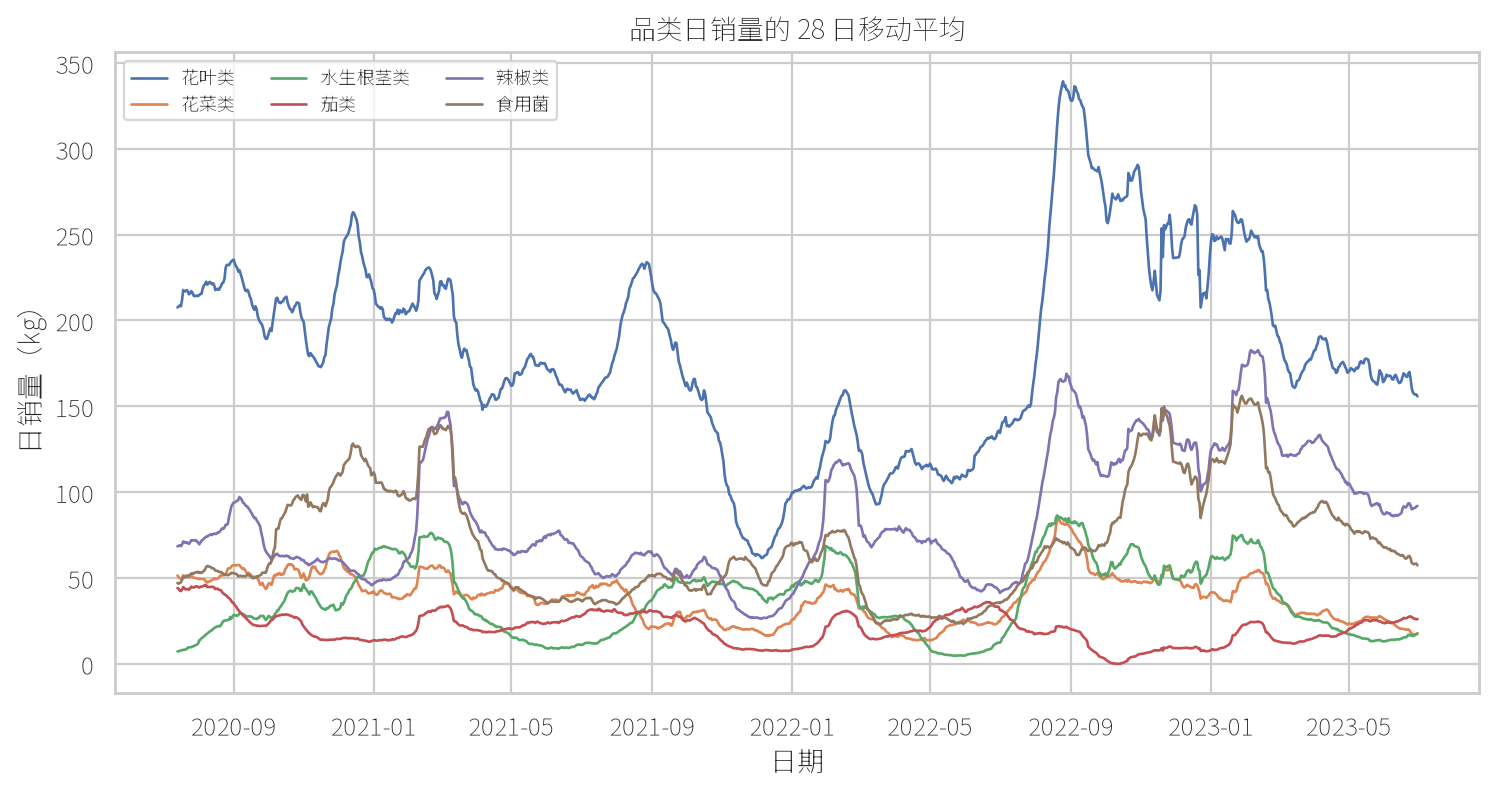
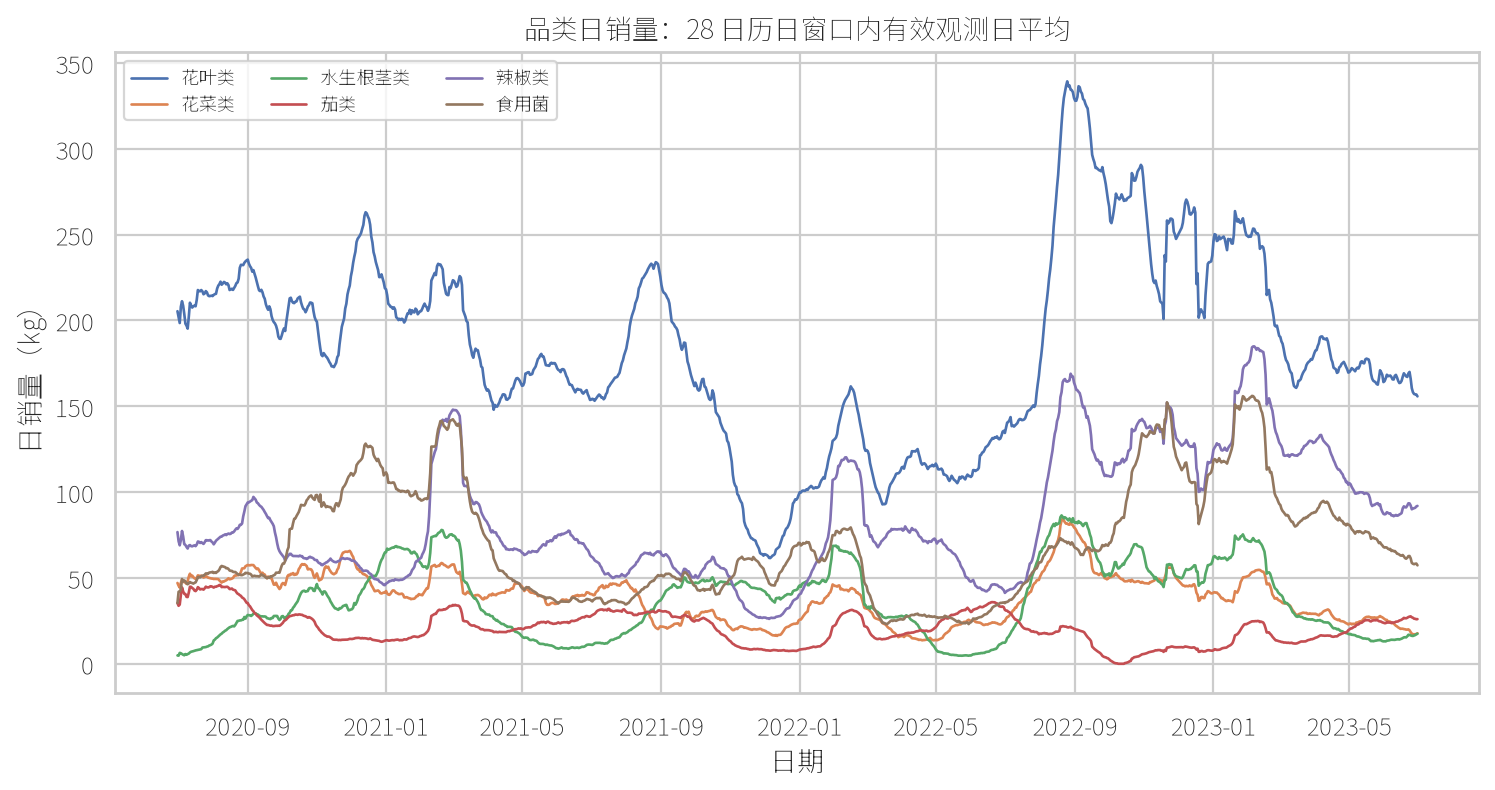
analysis: finalize problem 1 robustness and evidence tables

diff --git a/analysis/problem1/problem1_eda.py b/analysis/problem1/problem1_eda.py
@@ -139,6 +139,26 @@ def category_analysis(category_daily: pd.DataFrame, outputs: Path, figures: Path
     ym["月份"] = ym.index.month
     year_month_avg = ym.groupby(["年份", "月份"])[names].mean().reset_index()
     write_csv(year_month_avg, outputs / "category" / "品类_跨年度_月度日均销量.csv")
+    # Only 2021 and 2022 contain all twelve months. Compare their curves
+    # directly; the half-years 2020/2023 remain visual context, not replicates.
+    full_2021 = year_month_avg[year_month_avg["年份"] == 2021].sort_values("月份").reset_index(drop=True)
+    full_2022 = year_month_avg[year_month_avg["年份"] == 2022].sort_values("月份").reset_index(drop=True)
+    stability_rows = []
+    for name in names:
+        peak_21, peak_22 = int(full_2021.loc[full_2021[name].idxmax(), "月份"]), int(full_2022.loc[full_2022[name].idxmax(), "月份"])
+        trough_21, trough_22 = int(full_2021.loc[full_2021[name].idxmin(), "月份"]), int(full_2022.loc[full_2022[name].idxmin(), "月份"])
+        pearson = full_2021[name].corr(full_2022[name], method="pearson")
+        spearman = full_2021[name].corr(full_2022[name], method="spearman")
+        peak_close = abs(peak_21 - peak_22) <= 1
+        trough_close = abs(trough_21 - trough_22) <= 1
+        # This conservative label is an evidence summary, not a claim that
+        # seasonality has been proved from only two complete years.
+        label = "完整年度间有一定重复线索" if pearson >= .5 and spearman >= .5 and peak_close and trough_close else "跨完整年度不稳定，仅作描述"
+        stability_rows.append({"分类名称": name, "2021_峰值月份": peak_21, "2022_峰值月份": peak_22, "峰值月份相近_≤1月": peak_close,
+                               "2021_低谷月份": trough_21, "2022_低谷月份": trough_22, "低谷月份相近_≤1月": trough_close,
+                               "2021_2022月均曲线Pearson": pearson, "2021_2022月均曲线Spearman": spearman, "判定": label})
+    seasonal_stability = pd.DataFrame(stability_rows)
+    write_csv(seasonal_stability, outputs / "category" / "品类_2021_2022月份规律一致性.csv")
 
     weekdays = panel.copy()
     weekdays["星期"] = weekdays.index.dayofweek
@@ -146,9 +166,10 @@ def category_analysis(category_daily: pd.DataFrame, outputs: Path, figures: Path
     weekday_avg["星期名称"] = ["周一", "周二", "周三", "周四", "周五", "周六", "周日"]
     write_csv(weekday_avg, outputs / "category" / "品类_星期日均销量.csv")
 
+    calendar_days = pd.Series((panel.index - panel.index.min()).days.astype(float), index=panel.index)
     trend = pd.DataFrame({
         "分类名称": names,
-        "Spearman_日期趋势": [panel[name].corr(pd.Series(np.arange(len(panel)), index=panel.index), method="spearman") for name in names],
+        "Spearman_距起始日期日历天数": [panel[name].corr(calendar_days, method="spearman") for name in names],
     })
     write_csv(trend, outputs / "category" / "品类_长期趋势统计.csv")
 
@@ -167,11 +188,14 @@ def category_analysis(category_daily: pd.DataFrame, outputs: Path, figures: Path
     fig.savefig(figures / "品类_日销量箱线图.png")
     plt.close(fig)
 
-    rolling = panel.rolling(28, min_periods=14).mean()
+    # A time offset makes this a true calendar window. Missing store-record days
+    # are absent rather than zero-filled, so each mean uses only valid dates in
+    # the preceding 28 calendar days.
+    rolling = panel.rolling("28D", min_periods=1).mean()
     fig, ax = plt.subplots(figsize=(11, 5.2))
     for name in names:
         ax.plot(rolling.index, rolling[name], linewidth=1.2, label=name)
-    ax.set(title="品类日销量的 28 日移动平均", xlabel="日期", ylabel="日销量（kg）")
+    ax.set(title="品类日销量：28 日历日窗口内有效观测日平均", xlabel="日期", ylabel="日销量（kg）")
     ax.legend(ncol=3, fontsize=8)
     fig.savefig(figures / "品类_时间规律_28日移动平均.png")
     plt.close(fig)
@@ -205,7 +229,7 @@ def category_analysis(category_daily: pd.DataFrame, outputs: Path, figures: Path
     fig.savefig(figures / "品类_星期日均销量.png")
     plt.close(fig)
 
-    return {"panel": panel, "stats": stats, "monthly": month_avg, "year_month": year_month_avg, "weekday": weekday_avg, "trend": trend, "observed_days": len(observed_dates)}
+    return {"panel": panel, "stats": stats, "monthly": month_avg, "year_month": year_month_avg, "seasonal_stability": seasonal_stability, "weekday": weekday_avg, "trend": trend, "observed_days": len(observed_dates)}
 
 
 def item_analysis(item_daily: pd.DataFrame, active: pd.DataFrame | None, outputs: Path, figures: Path) -> dict:
@@ -296,7 +320,7 @@ def heatmap(matrix: pd.DataFrame, title: str, path: Path) -> None:
     plt.close(fig)
 
 
-def residualize_time_effects(panel: pd.DataFrame) -> pd.DataFrame:
+def residualize_time_effects(panel: pd.DataFrame, include_year: bool = False) -> pd.DataFrame:
     """Remove additive weekday, calendar-month and linear-time effects by OLS.
 
     This is a transparent descriptive adjustment, not a causal model.  The time
@@ -309,7 +333,12 @@ def residualize_time_effects(panel: pd.DataFrame) -> pd.DataFrame:
     month = pd.get_dummies(dates.month, prefix="month", drop_first=True, dtype=float)
     weekday.index = dates
     month.index = dates
-    x = pd.concat([design, weekday, month], axis=1).to_numpy(dtype=float)
+    parts = [design, weekday, month]
+    if include_year:
+        year = pd.get_dummies(dates.year, prefix="year", drop_first=True, dtype=float)
+        year.index = dates
+        parts.append(year)
+    x = pd.concat(parts, axis=1).to_numpy(dtype=float)
     residuals = pd.DataFrame(index=dates, columns=panel.columns, dtype=float)
     for name in panel.columns:
         y = panel[name].to_numpy(dtype=float)
@@ -338,10 +367,14 @@ def category_correlations(panel: pd.DataFrame, outputs: Path, figures: Path) -> 
     residuals = residualize_time_effects(panel)
     residual_p = residuals.corr(method="pearson")
     residual_s = residuals.corr(method="spearman")
+    residuals_year = residualize_time_effects(panel, include_year=True)
+    residual_year_p = residuals_year.corr(method="pearson")
+    residual_year_s = residuals_year.corr(method="spearman")
     for name, table in [("品类_日尺度_Pearson相关矩阵.csv", daily_p), ("品类_日尺度_Spearman相关矩阵.csv", daily_s),
                         ("品类_周尺度_旧含不完整周_Pearson相关矩阵.csv", weekly_all_p), ("品类_周尺度_旧含不完整周_Spearman相关矩阵.csv", weekly_all_s),
                         ("品类_周尺度_完整自然周_Pearson相关矩阵.csv", weekly_p), ("品类_周尺度_完整自然周_Spearman相关矩阵.csv", weekly_s),
-                        ("品类_残差_Pearson相关矩阵.csv", residual_p), ("品类_残差_Spearman相关矩阵.csv", residual_s)]:
+                        ("品类_残差_Pearson相关矩阵.csv", residual_p), ("品类_残差_Spearman相关矩阵.csv", residual_s),
+                        ("品类_残差_含年份效应_Pearson相关矩阵.csv", residual_year_p), ("品类_残差_含年份效应_Spearman相关矩阵.csv", residual_year_s)]:
         write_csv(table.reset_index().rename(columns={"category_name": "分类名称"}), outputs / "correlation" / name)
     heatmap(daily_p, "品类日销量 Pearson 相关", figures / "品类_日尺度Pearson热力图.png")
     heatmap(daily_s, "品类日销量 Spearman 相关", figures / "品类_日尺度Spearman热力图.png")
@@ -355,11 +388,14 @@ def category_correlations(panel: pd.DataFrame, outputs: Path, figures: Path) -> 
         pairs.append({"品类A": a, "品类B": b, "日Pearson": daily_p.loc[a, b], "日Spearman": daily_s.loc[a, b],
                       "旧周Pearson": weekly_all_p.loc[a, b], "旧周Spearman": weekly_all_s.loc[a, b],
                       "完整周Pearson": weekly_p.loc[a, b], "完整周Spearman": weekly_s.loc[a, b],
-                      "残差Pearson": residual_p.loc[a, b], "残差Spearman": residual_s.loc[a, b]})
+                      "残差Pearson": residual_p.loc[a, b], "残差Spearman": residual_s.loc[a, b],
+                      "残差含年份Pearson": residual_year_p.loc[a, b], "残差含年份Spearman": residual_year_s.loc[a, b]})
     pair_table = pd.DataFrame(pairs)
     pair_table["周Pearson修正差异"] = pair_table["完整周Pearson"] - pair_table["旧周Pearson"]
     pair_table["周Spearman修正差异"] = pair_table["完整周Spearman"] - pair_table["旧周Spearman"]
-    pair_table["最大绝对相关"] = pair_table[["日Pearson", "日Spearman", "完整周Pearson", "完整周Spearman", "残差Pearson", "残差Spearman"]].abs().max(axis=1)
+    pair_table["残差Pearson_年份效应差异"] = pair_table["残差含年份Pearson"] - pair_table["残差Pearson"]
+    pair_table["残差Spearman_年份效应差异"] = pair_table["残差含年份Spearman"] - pair_table["残差Spearman"]
+    pair_table["最大绝对相关"] = pair_table[["日Pearson", "日Spearman", "完整周Pearson", "完整周Spearman", "残差Pearson", "残差Spearman", "残差含年份Pearson", "残差含年份Spearman"]].abs().max(axis=1)
     pair_table = pair_table.sort_values("最大绝对相关", ascending=False)
     write_csv(pair_table, outputs / "correlation" / "品类_相关性_时间控制与周修正对照.csv")
     focus_names = [("辣椒类", "食用菌"), ("花叶类", "花菜类"), ("水生根茎类", "食用菌")]
@@ -369,7 +405,7 @@ def category_correlations(panel: pd.DataFrame, outputs: Path, figures: Path) -> 
     write_csv(focus_table, outputs / "correlation" / "品类_重点对_控制时间效应对照.csv")
     week_summary = pd.DataFrame([{"旧周样本数": len(weekly_all), "完整自然周样本数": len(weekly), "剔除周数": len(weekly_all) - len(weekly)}])
     write_csv(week_summary, outputs / "correlation" / "品类_周尺度样本修正摘要.csv")
-    return {"daily_p": daily_p, "daily_s": daily_s, "weekly_old_p": weekly_all_p, "weekly_old_s": weekly_all_s, "weekly_p": weekly_p, "weekly_s": weekly_s, "residual_p": residual_p, "residual_s": residual_s, "pairs": pair_table, "focus": focus_table, "weekly": weekly, "weekly_old": weekly_all, "residuals": residuals}
+    return {"daily_p": daily_p, "daily_s": daily_s, "weekly_old_p": weekly_all_p, "weekly_old_s": weekly_all_s, "weekly_p": weekly_p, "weekly_s": weekly_s, "residual_p": residual_p, "residual_s": residual_s, "residual_year_p": residual_year_p, "residual_year_s": residual_year_s, "pairs": pair_table, "focus": focus_table, "weekly": weekly, "weekly_old": weekly_all, "residuals": residuals, "residuals_year": residuals_year}
 
 
 def item_overlap_and_correlations(item_daily: pd.DataFrame, active: pd.DataFrame | None, outputs: Path, figures: Path) -> dict:
@@ -460,6 +496,33 @@ def item_overlap_and_correlations(item_daily: pd.DataFrame, active: pd.DataFrame
     write_csv(sensitivity, outputs / "correlation" / "单品_相关性门槛敏感性摘要.csv")
     write_csv(correlations.sort_values("最大绝对相关", ascending=False).head(100), outputs / "correlation" / "单品_相关性绝对值Top100.csv")
 
+    # Do not present hundreds of qualifying pairs as a flat list.  Summarize the
+    # relation structure and select examples with both adequate overlap and close
+    # Pearson/Spearman estimates.
+    robust = robust.copy()
+    robust["方向"] = np.where(robust["Pearson相关"] > 0, "正相关", "负相关")
+    robust["是否同品类"] = robust["分类名称_A"] == robust["分类名称_B"]
+    robust["品类组合"] = robust.apply(lambda r: " × ".join(sorted([r["分类名称_A"], r["分类名称_B"]])), axis=1)
+    structure_summary = pd.DataFrame([{
+        "稳健相关对总数": len(robust), "正相关对数": int((robust["方向"] == "正相关").sum()), "负相关对数": int((robust["方向"] == "负相关").sum()),
+        "同品类对数": int(robust["是否同品类"].sum()), "跨品类对数": int((~robust["是否同品类"]).sum()),
+    }])
+    write_csv(structure_summary, outputs / "correlation" / "单品_稳健相关对_结构摘要.csv")
+    structure_by_category = robust.groupby(["品类组合", "方向"], as_index=False).agg(
+        稳健相关对数=("单品编码_A", "size"), 共同销售日数中位数=("共同有销售记录日数", "median"),
+        Pearson中位数=("Pearson相关", "median"), Spearman中位数=("Spearman相关", "median"),
+        共同最弱相关绝对值中位数=("共同最弱相关绝对值", "median"),
+    ).sort_values(["稳健相关对数", "共同最弱相关绝对值中位数"], ascending=False)
+    write_csv(structure_by_category, outputs / "correlation" / "单品_稳健相关对_品类组合汇总.csv")
+    n_cutoff = robust["共同有销售记录日数"].quantile(.75)
+    representative_pool = robust[(robust["共同有销售记录日数"] >= n_cutoff) & (robust["Pearson_Spearman绝对差"] <= .10)].copy()
+    representative_pool["代表性排序分数"] = representative_pool["共同最弱相关绝对值"] * np.log1p(representative_pool["共同有销售记录日数"])
+    representatives = pd.concat([
+        representative_pool[representative_pool["方向"] == "正相关"].nlargest(3, "代表性排序分数"),
+        representative_pool[representative_pool["方向"] == "负相关"].nlargest(2, "代表性排序分数"),
+    ]).sort_values(["方向", "代表性排序分数"], ascending=[False, False])
+    write_csv(representatives, outputs / "correlation" / "单品_稳健相关对_代表性样本.csv")
+
     # Scatter examples use the robust set if it contains both signs.  Raw top
     # Pearson pairs remain tables only because a high Pearson alone is a clue.
     examples = []
@@ -482,7 +545,8 @@ def item_overlap_and_correlations(item_daily: pd.DataFrame, active: pd.DataFrame
     return {"overlap_summary": overlap_summary, "distribution": distribution, "threshold": threshold, "eligible_pairs": len(eligible),
             "correlations": correlations, "correlations_30": correlations_30, "correlations_60": correlations_60,
             "positive_30": pos30, "negative_30": neg30, "positive_60": pos60, "negative_60": neg60,
-            "robust": robust, "sensitivity": sensitivity}
+            "robust": robust, "sensitivity": sensitivity, "structure_summary": structure_summary,
+            "structure_by_category": structure_by_category, "representatives": representatives, "representative_n_cutoff": n_cutoff}
 
 
 def fmt(value: float, digits: int = 2) -> str:
@@ -492,6 +556,44 @@ def fmt(value: float, digits: int = 2) -> str:
 def markdown_table(df: pd.DataFrame, columns: list[str], n: int | None = None) -> str:
     selected = df[columns].head(n) if n else df[columns]
     return selected.to_markdown(index=False, floatfmt=".2f")
+
+
+def write_final_candidate_tables(category: dict, corr: dict, item_corr: dict, outputs: Path) -> dict:
+    """Write the shared missing-data rule and the paper-oriented evidence tables."""
+    final_dir = outputs / "final"
+    rules = pd.DataFrame([
+        {"统计问题": "三年总销量", "有效样本": "所有真实销售记录", "缺失处理": "直接求和；无销售记录日不另造 0", "完整窗口要求": "否"},
+        {"统计问题": "日均销量", "有效样本": "1085 个有销售记录日", "缺失处理": "仅这些有效日参与均值", "完整窗口要求": "否"},
+        {"统计问题": "月度平均日销量", "有效样本": "该月份的所有有效观测日", "缺失处理": "不要求该月完整，不删除相邻有效日", "完整窗口要求": "否"},
+        {"统计问题": "跨年度月份规律", "有效样本": "各 year-month 内的所有有效观测日", "缺失处理": "按 year-month 独立平均；半年度不当完整重复", "完整窗口要求": "否"},
+        {"统计问题": "星期规律", "有效样本": "所有有效周一、周二……", "缺失处理": "按星期分别平均，不因同周其他日缺失而删除", "完整窗口要求": "否"},
+        {"统计问题": "日尺度相关", "有效样本": "有效观测日", "缺失处理": "不把全店无销售记录日补为 0", "完整窗口要求": "否"},
+        {"统计问题": "周总销量及周尺度相关", "有效样本": "周一至周日均有销售记录的周", "缺失处理": "仅此处剔除 7 日不齐全的自然周", "完整窗口要求": "是：7 个销售记录日"},
+        {"统计问题": "单品相关", "有效样本": "两单品共同销售日", "缺失处理": "未知状态日期不补 0", "完整窗口要求": "否；使用 overlap 门槛"},
+    ])
+    write_csv(rules, final_dir / "统计口径与缺失处理.csv")
+    focus = corr["focus"].set_index(["品类A", "品类B"])
+    structure = item_corr["structure_summary"].iloc[0]
+    monthly = category["seasonal_stability"]
+    conclusion = pd.DataFrame([
+        {"结论": "品类规模和波动存在差异", "使用指标/图": "品类描述统计、总销量柱状图、箱线图", "数值证据": "花叶类总销量最高；水生根茎类 CV 最高", "稳健性验证": "1085 个有效日，未把 10 个无记录日补零", "论文表述限制": "描述性差异，不解释原因"},
+        {"结论": "月度模式跨完整年度总体不稳定", "使用指标/图": "2021/2022 月均曲线与一致性表", "数值证据": f"6 类中满足保守重复规则的类别数={int((monthly['判定'] == '完整年度间有一定重复线索').sum())}", "稳健性验证": "仅比较完整 2021、2022；2020/2023 仅作半年度旁证", "论文表述限制": "不能称已证明稳定季节性"},
+        {"结论": "辣椒类—食用菌存在较强的时间控制后同步线索", "使用指标/图": "日相关、完整周相关、残差相关", "数值证据": f"残差 Pearson/Spearman={focus.loc[('辣椒类','食用菌'),'残差Pearson']:.3f}/{focus.loc[('辣椒类','食用菌'),'残差Spearman']:.3f}；含年份={focus.loc[('辣椒类','食用菌'),'残差含年份Pearson']:.3f}/{focus.loc[('辣椒类','食用菌'),'残差含年份Spearman']:.3f}", "稳健性验证": "完整自然周与年份效应敏感性", "论文表述限制": "同步变化，不是因果"},
+        {"结论": "花叶类—花菜类与水生根茎类—食用菌仍有正向同步线索", "使用指标/图": "重点对照表与残差热图", "数值证据": "残差相关方向为正；见重点对照表", "稳健性验证": "完整周、含年份效应残差", "论文表述限制": "强度不同，不能外推为机制"},
+        {"结论": "单品关系需使用 overlap 与双相关筛选", "使用指标/图": "overlap 分布、门槛敏感性、稳健相关结构表", "数值证据": f"n≥30/60 Top20 交集=11；稳健对={int(structure['稳健相关对总数'])}，正/负={int(structure['正相关对数'])}/{int(structure['负相关对数'])}", "稳健性验证": "n≥60、Pearson/Spearman 同号且均≥0.40", "论文表述限制": "仅共同销售日线索；不证明替代或互补"},
+    ])
+    write_csv(conclusion, final_dir / "结论_证据_限制.csv")
+    candidate_figures = pd.DataFrame([
+        {"图或表": "品类总销量柱状图、日销量箱线图", "建议位置": "正文", "用途": "品类规模与波动"},
+        {"图或表": "跨年度月度规律图", "建议位置": "正文", "用途": "月度规律及其跨年限制"},
+        {"图或表": "完整自然周 Pearson/Spearman 热图", "建议位置": "正文", "用途": "周尺度品类同步关系"},
+        {"图或表": "残差 Pearson 热图", "建议位置": "正文", "用途": "控制时间规律后的品类关系"},
+        {"图或表": "单品销量排名与累计贡献、overlap 分布", "建议位置": "正文", "用途": "集中度与单品关系口径"},
+        {"图或表": "稳健单品对代表性样本表", "建议位置": "正文或附表", "用途": "少量可解释的单品关系线索"},
+        {"图或表": "旧含不完整周相关、全量 Top20/Top100、Pearson-Spearman 差异表", "建议位置": "分析目录/附录", "用途": "口径修正与稳健性审计，不作论文主结论"},
+    ])
+    write_csv(candidate_figures, final_dir / "论文候选图表清单.csv")
+    return {"rules": rules, "conclusion": conclusion, "figures": candidate_figures}
 
 
 def create_report(category: dict, item: dict, corr: dict, item_corr: dict, report_path: Path) -> None:
@@ -597,7 +699,7 @@ def create_report(category: dict, item: dict, corr: dict, item_corr: dict, repor
     report_path.write_text(report, encoding="utf-8")
 
 
-def create_second_round_report(category: dict, item: dict, corr: dict, item_corr: dict, report_path: Path) -> None:
+def create_second_round_report(category: dict, item: dict, corr: dict, item_corr: dict, final_tables: dict, report_path: Path) -> None:
     """Write the review-oriented report for the second EDA verification round."""
     cat_stats = category["stats"]
     item_stats = item["stats"]
@@ -605,11 +707,14 @@ def create_second_round_report(category: dict, item: dict, corr: dict, item_corr
     focus = corr["focus"]
     sensitivity = item_corr["sensitivity"].iloc[0]
     robust = item_corr["robust"]
+    seasonal = category["seasonal_stability"]
+    structure = item_corr["structure_summary"].iloc[0]
+    representatives = item_corr["representatives"]
     old_weeks, full_weeks = len(corr["weekly_old"]), len(corr["weekly"])
     robust_text = "未出现满足全部规则的单品对。" if robust.empty else (
         f"筛得 {len(robust)} 对；强度最高的是 **{robust.iloc[0]['单品名称_A']}—{robust.iloc[0]['单品名称_B']}** "
         f"（n={int(robust.iloc[0]['共同有销售记录日数'])}，Pearson={robust.iloc[0]['Pearson相关']:.2f}，Spearman={robust.iloc[0]['Spearman相关']:.2f}）。")
-    report = f"""# 2023 年 CUMCM C 题：问题一 EDA（第二轮验证）
+    report = f"""# 2023 年 CUMCM C 题：问题一 EDA（第三轮收口候选版）
 
 > 本轮只验证问题一的统计规律与相关关系；不包含预测、补货、定价和问题二、问题三。运行 `problem1_eda.py` 可从问题一 CSV 重新生成本报告、所有表和图。
 
@@ -619,6 +724,12 @@ def create_second_round_report(category: dict, item: dict, corr: dict, item_corr
 - 在已观测日期，缺失的品类记录可记为该品类 0 销量；单品缺失记录不自动补零。
 - 单品相关只在两件单品都有销售记录的共同日期计算，表示条件性的同步变化，不表示全在售期需求、更不表示因果。
 
+### 统计口径与缺失处理
+
+{markdown_table(final_tables['rules'], ['统计问题','有效样本','缺失处理','完整窗口要求'])}
+
+核心原则是：**无销售记录日不等于销量 0；但缺少某一天，也不意味着附近其他有效日必须一起删除。只有统计量依赖固定完整时间窗口时，才要求窗口完整。** 因此仅周总销量和周尺度相关要求完整自然周。
+
 ## A. 描述性规律
 
 ### 六品类销售分布
@@ -627,7 +738,13 @@ def create_second_round_report(category: dict, item: dict, corr: dict, item_corr
 
 花叶类总销量最高（{cat_stats.iloc[0]['总销量_kg']:.1f} kg），茄类最低（{cat_stats.iloc[-1]['总销量_kg']:.1f} kg）；水生根茎类 CV 最高（{cat_stats['CV'].max():.2f}），花叶类最低（{cat_stats['CV'].min():.2f}）。这些仅为规模与波动的描述，不解释形成机制。
 
-月度规律同时提供“合并月份平均”和 `品类_跨年度月度规律.png`。后者把 2020、2021、2022、2023 的年内月份分开绘制：2020 年只有 7—12 月、2023 年只有 1—6 月，因此跨年度重复性应以完整的 2021、2022 年为主要依据，首尾两年只提供半年度旁证。只有跨年曲线重复的峰谷才适合称为稳定季节线索；不一致的月份差异只作为汇总描述。星期规律保留在 `品类_星期日均销量.png`。
+月度规律同时提供“合并月份平均”和 `品类_跨年度月度规律.png`。后者把 2020、2021、2022、2023 的年内月份分开绘制：2020 年只有 7—12 月、2023 年只有 1—6 月，因此跨年度重复性以完整的 2021、2022 年为主要依据，首尾两年只提供半年度旁证。28 日图已修正为**28 日历日窗口内的有效观测日平均**；长期趋势统计也改用距起始日期的实际日历天数，两项修正未改变品类规模、星期差异或相关关系的主结论。
+
+### 2021/2022 月份曲线一致性
+
+{markdown_table(seasonal, ['分类名称','2021_2022月均曲线Pearson','2021_2022月均曲线Spearman','2021_峰值月份','2022_峰值月份','2021_低谷月份','2022_低谷月份','判定'])}
+
+在保守规则（两种曲线相关均≥0.50，且峰值、低谷月份均相差不超过 1 个月）下，没有品类满足“完整年度间有一定重复线索”。因此月份图可用于描述年度内变化，但本数据不能据此写成“已证明稳定季节性”。星期规律仍可描述为所有对应有效星期日的平均差异。
 
 单品层共有 {int(item_summary['单品数'])} 个实际销售单品，Top 10/Top 20 分别贡献 {item_summary['Top10销量占比']:.1%}/{item_summary['Top20销量占比']:.1%} 总销量；销售天数中位数为 {item_summary['销售天数中位数']:.0f} 天。见 `单品_销量排名与累计贡献.png`、`单品_销售天数与波动分布.png`。
 
@@ -643,9 +760,9 @@ def create_second_round_report(category: dict, item: dict, corr: dict, item_corr
 
 ### 重点品类对：原始、修正周和残差相关
 
-{markdown_table(focus, ['品类A','品类B','日Pearson','日Spearman','旧周Pearson','完整周Pearson','周Pearson修正差异','旧周Spearman','完整周Spearman','周Spearman修正差异','残差Pearson','残差Spearman'])}
+{markdown_table(focus, ['品类A','品类B','日Pearson','完整周Pearson','残差Pearson','残差Spearman','残差含年份Pearson','残差含年份Spearman'])}
 
-残差由一个可解释的加性最小二乘模型得到：星期虚拟变量、月份虚拟变量和实际日历日的线性趋势。残差相关检验的是控制这三类共同时间规律后，日销量偏离是否仍同步；它没有控制价格、促销、供给和其他混杂因素，因此**不能作因果解释**。论文若保留品类关系，应优先呈现原始日尺度热图、完整自然周热图和残差热图三者均支持的方向。
+主残差由星期虚拟变量、月份虚拟变量和实际日历日线性趋势的加性最小二乘模型得到；敏感性模型额外加入年份固定效应。三组重点对加入年份后方向和量级仍为正且相近，因而可称为“对该时间控制设定具有一定稳健性”。它没有控制价格、促销、供给等混杂因素，**不能作因果解释**。论文若保留品类关系，应优先呈现原始日尺度、完整自然周与残差热图均支持的方向。
 
 ## C. 仅作为线索的单品关系：真正的门槛敏感性分析
 
@@ -653,7 +770,13 @@ def create_second_round_report(category: dict, item: dict, corr: dict, item_corr
 
 n≥30 中 Pearson/Spearman 异号对有 {int(sensitivity['n≥30 Pearson与Spearman异号对数']):,} 对，n≥60 中有 {int(sensitivity['n≥60 Pearson与Spearman异号对数']):,} 对。这些以及两指标绝对值相差大的单品对均不能当作稳健关系；详见 `单品_Pearson与Spearman差异Top50.csv`。
 
-本报告定义“稳健相关对”为：共同销售日 n≥60、Pearson 与 Spearman 同号、且两者绝对值均≥0.40。{robust_text} 完整名单在 `单品_稳健相关对_n不少于60.csv`。n≥30/n≥60 的正负 Top20 与敏感性摘要也均已输出；单靠 Pearson Top20 不进入论文主要结论。
+本报告定义“稳健相关对”为：共同销售日 n≥60、Pearson 与 Spearman 同号、且两者绝对值均≥0.40。{robust_text} 其中正相关 {int(structure['正相关对数'])} 对、负相关 {int(structure['负相关对数'])} 对；同品类 {int(structure['同品类对数'])} 对、跨品类 {int(structure['跨品类对数'])} 对。完整名单、品类组合结构和代表性样本分别见 `单品_稳健相关对_n不少于60.csv`、`单品_稳健相关对_品类组合汇总.csv`、`单品_稳健相关对_代表性样本.csv`。
+
+### 代表性单品关系样本
+
+{markdown_table(representatives, ['方向','单品名称_A','分类名称_A','单品名称_B','分类名称_B','共同有销售记录日数','Pearson相关','Spearman相关'], 5)}
+
+代表样本要求共同销售日不低于稳健对的上四分位数，且两种相关差异不超过 0.10；它们更适合作为论文例子。负相关仅可称为反向同步或可能的替代性线索。
 
 ## 【数据层】
 
@@ -677,11 +800,13 @@ n≥30 中 Pearson/Spearman 异号对有 {int(sensitivity['n≥30 Pearson与Spea
 
 ## 【暂时结论】
 
-论文图优先选择：品类总量/箱线图、跨年度月度图、完整自然周和残差相关热图，以及 overlap 分布图。单品关系只引用稳健相关表中的少量对，并写明 n 与双相关系数。
+最终收口表见 `outputs/final/结论_证据_限制.csv`。正文建议保留：品类总销量/箱线图、跨年度月度图、完整自然周相关热图、残差 Pearson 热图、单品累计贡献图、overlap 分布图，以及代表性稳健单品对表，共 5—8 张图。旧含不完整周相关、全量 Top20/Top100 和 Pearson-Spearman 差异表只放分析目录或附录，明确为修正对照，不作为论文结论。
+
+建议正文按以下结论写作：品类分布写规模排序、相对波动差异、星期差异，并说明月份规律跨完整年度不稳定；单品分布写销量集中度、销售天数差异和不宜统一补零；品类关系写三组经完整周与残差验证后仍为正的同步线索；单品关系写 overlap 约束、筛选规则和少量代表性正相关，负相关仅写反向同步线索。
 
 ## 【下一步】
 
-请审核重点品类对的残差相关和跨年度月度曲线；确认有业务解释的稳健单品对后，再决定是否需要问题一第三轮分析。暂不进入预测或优化。
+本轮到此暂停，等待审核；暂不进入预测或优化。
 """
     report_path.write_text(report, encoding="utf-8")
 
@@ -710,7 +835,8 @@ def main() -> None:
     item = item_analysis(item_daily, active, outputs, figures)
     corr = category_correlations(category["panel"], outputs, figures)
     item_corr = item_overlap_and_correlations(item_daily, active, outputs, figures)
-    create_second_round_report(category, item, corr, item_corr, analysis_dir / "problem1_eda_report.md")
+    final_tables = write_final_candidate_tables(category, corr, item_corr, outputs)
+    create_second_round_report(category, item, corr, item_corr, final_tables, analysis_dir / "problem1_eda_report.md")
     print(f"Wrote EDA report, tables and figures under: {analysis_dir}")
 
 

diff --git a/analysis/problem1/README.md b/analysis/problem1/README.md
@@ -13,3 +13,20 @@ python analysis/problem1/problem1_eda.py
 如果需要指定输入或输出目录，可使用 `--item-daily`、`--category-daily`、
 `--active-stats` 与 `--analysis-dir` 参数。
 
+## 统计口径与缺失处理
+
+核心原则：**无销售记录日不等于销量 0；但缺少某一天，也不意味着附近其他有效日必须一起删除。只有统计量依赖固定完整时间窗口时，才要求窗口完整。**
+
+| 统计问题 | 有效样本与处理 | 是否要求完整窗口 |
+| --- | --- | --- |
+| 三年总销量 | 所有真实销售记录直接求和 | 否 |
+| 日均销量 | 1085 个有销售记录日 | 否 |
+| 月度平均日销量、跨年度月份规律 | 各月或各 year-month 的所有有效观测日；月份不必完整 | 否 |
+| 星期规律 | 所有有效周一、周二……分别平均 | 否 |
+| 日尺度相关 | 有效观测日；全店无记录日不补零 | 否 |
+| 周总销量、周尺度相关 | 仅周一至周日 7 个销售记录日齐全的自然周 | 是 |
+| 单品相关 | 两单品共同销售日；未知状态日期不补零 | 否，使用 overlap 门槛 |
+
+运行后可查阅 `outputs/final/统计口径与缺失处理.csv`、
+`结论_证据_限制.csv` 与 `论文候选图表清单.csv`。
+
